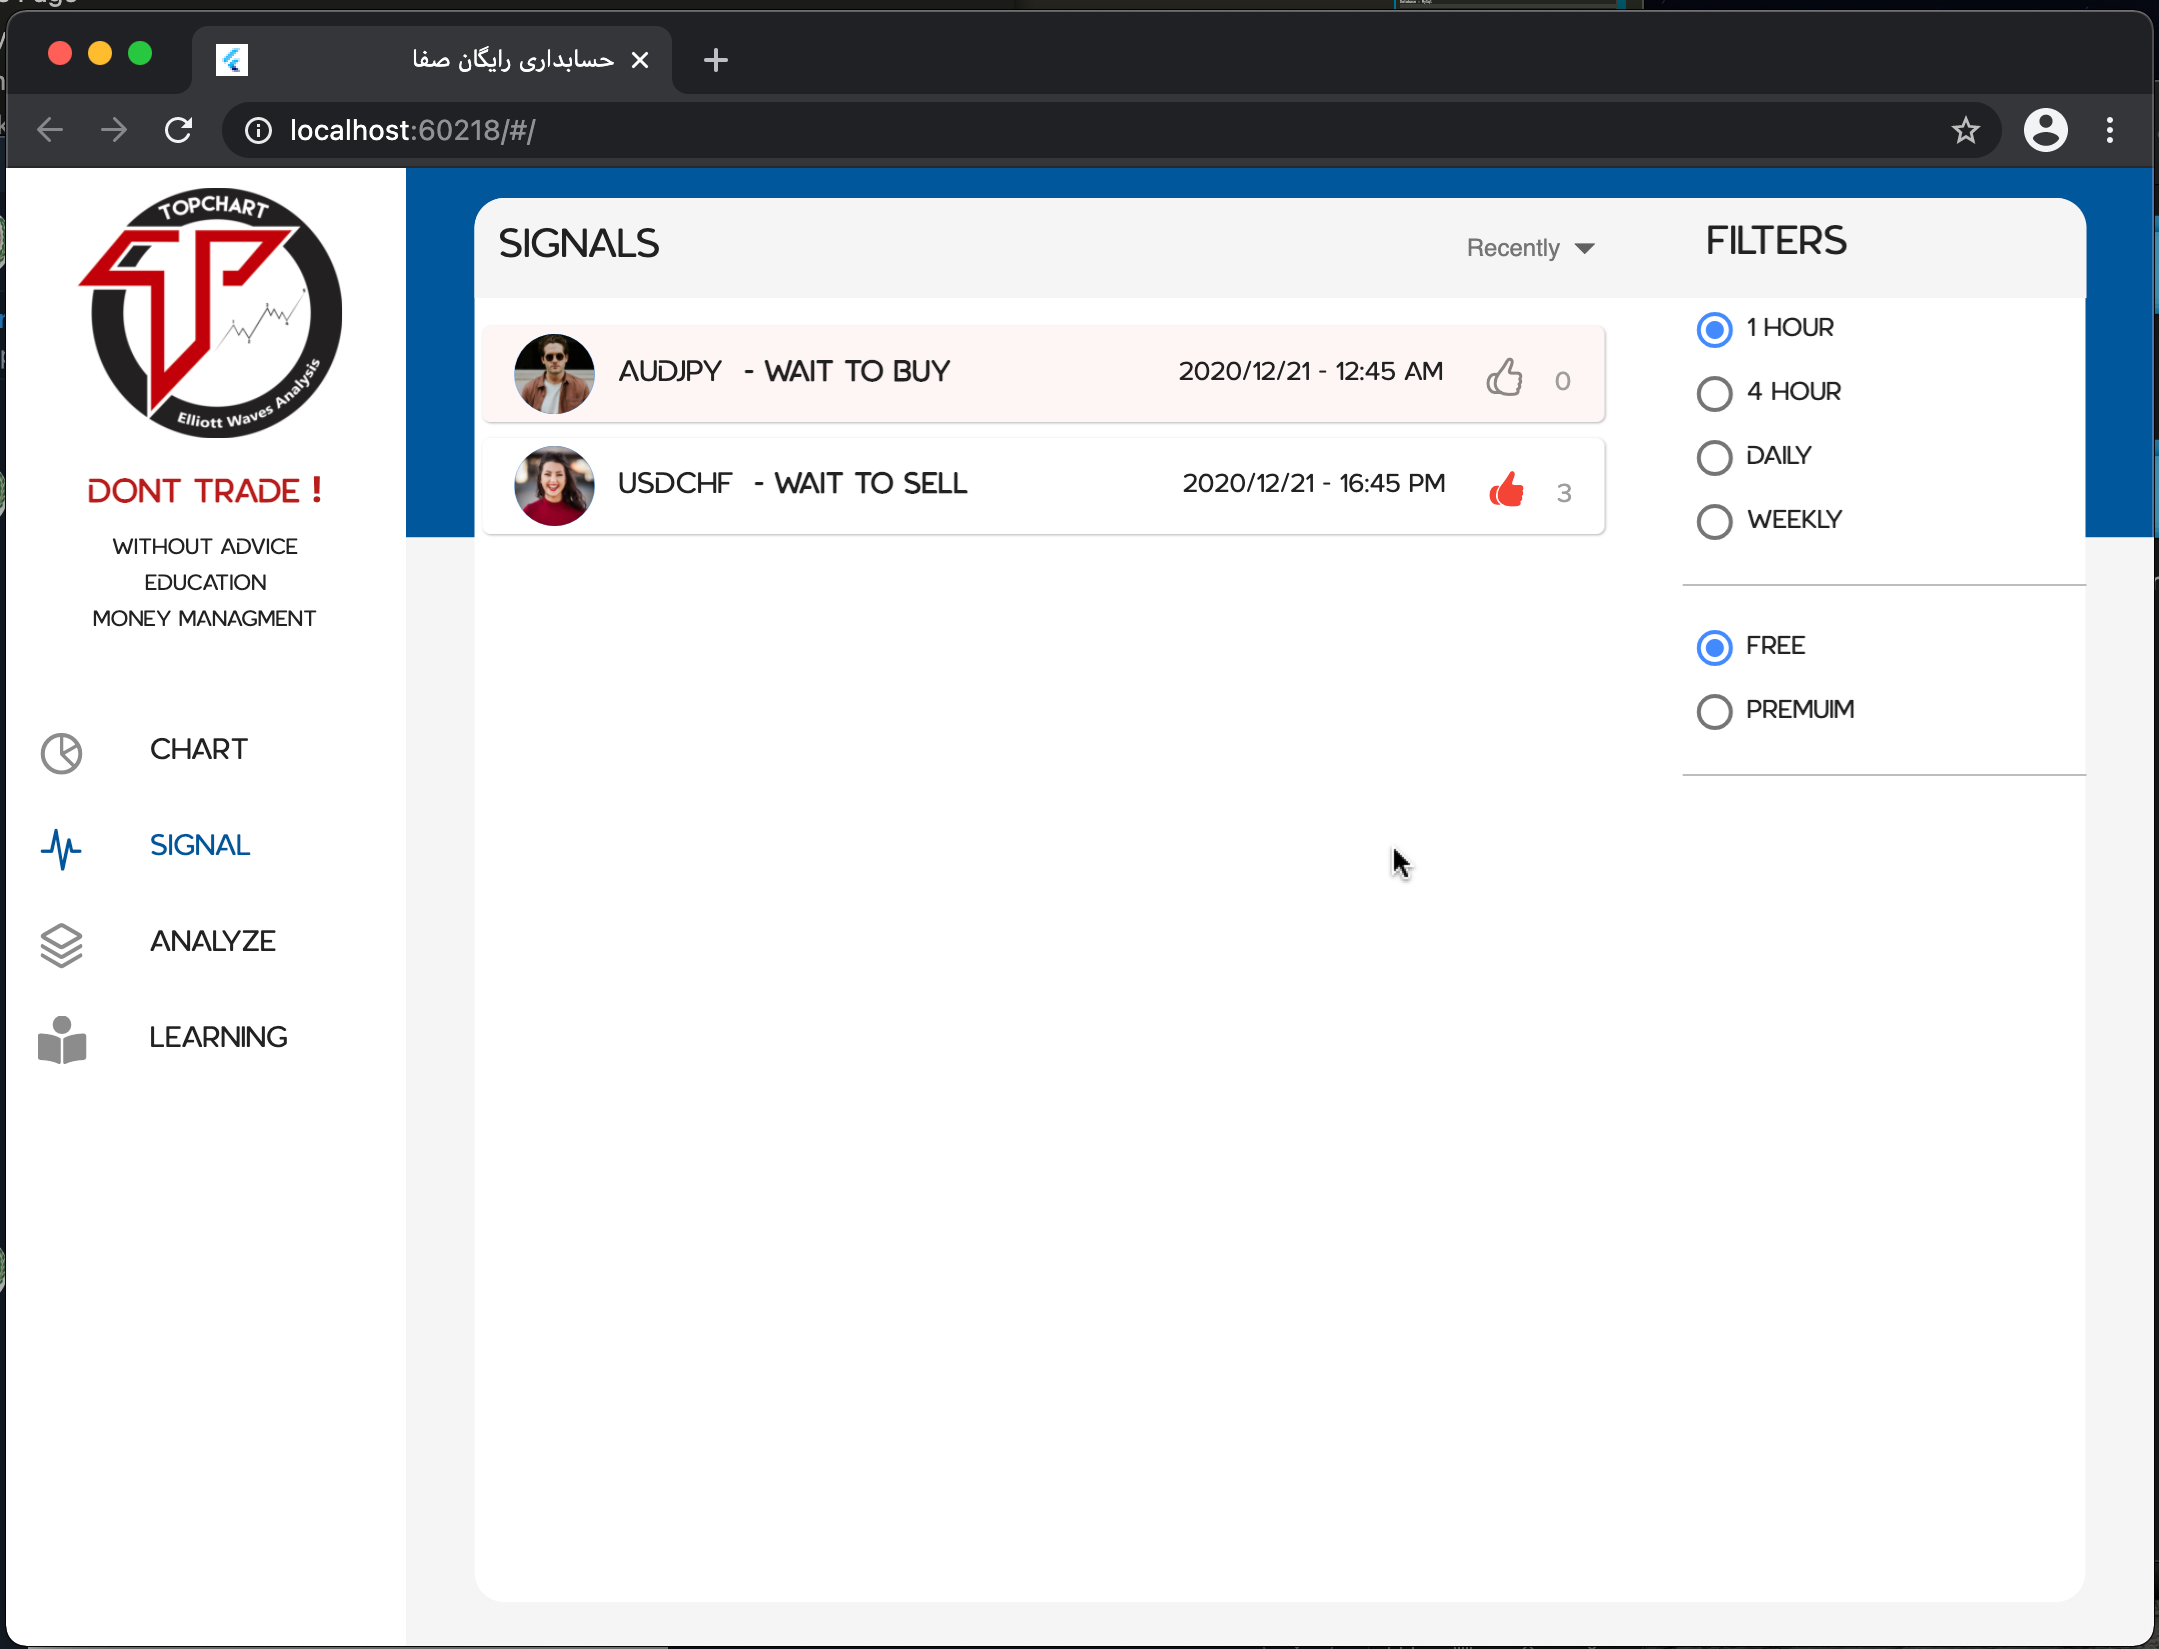
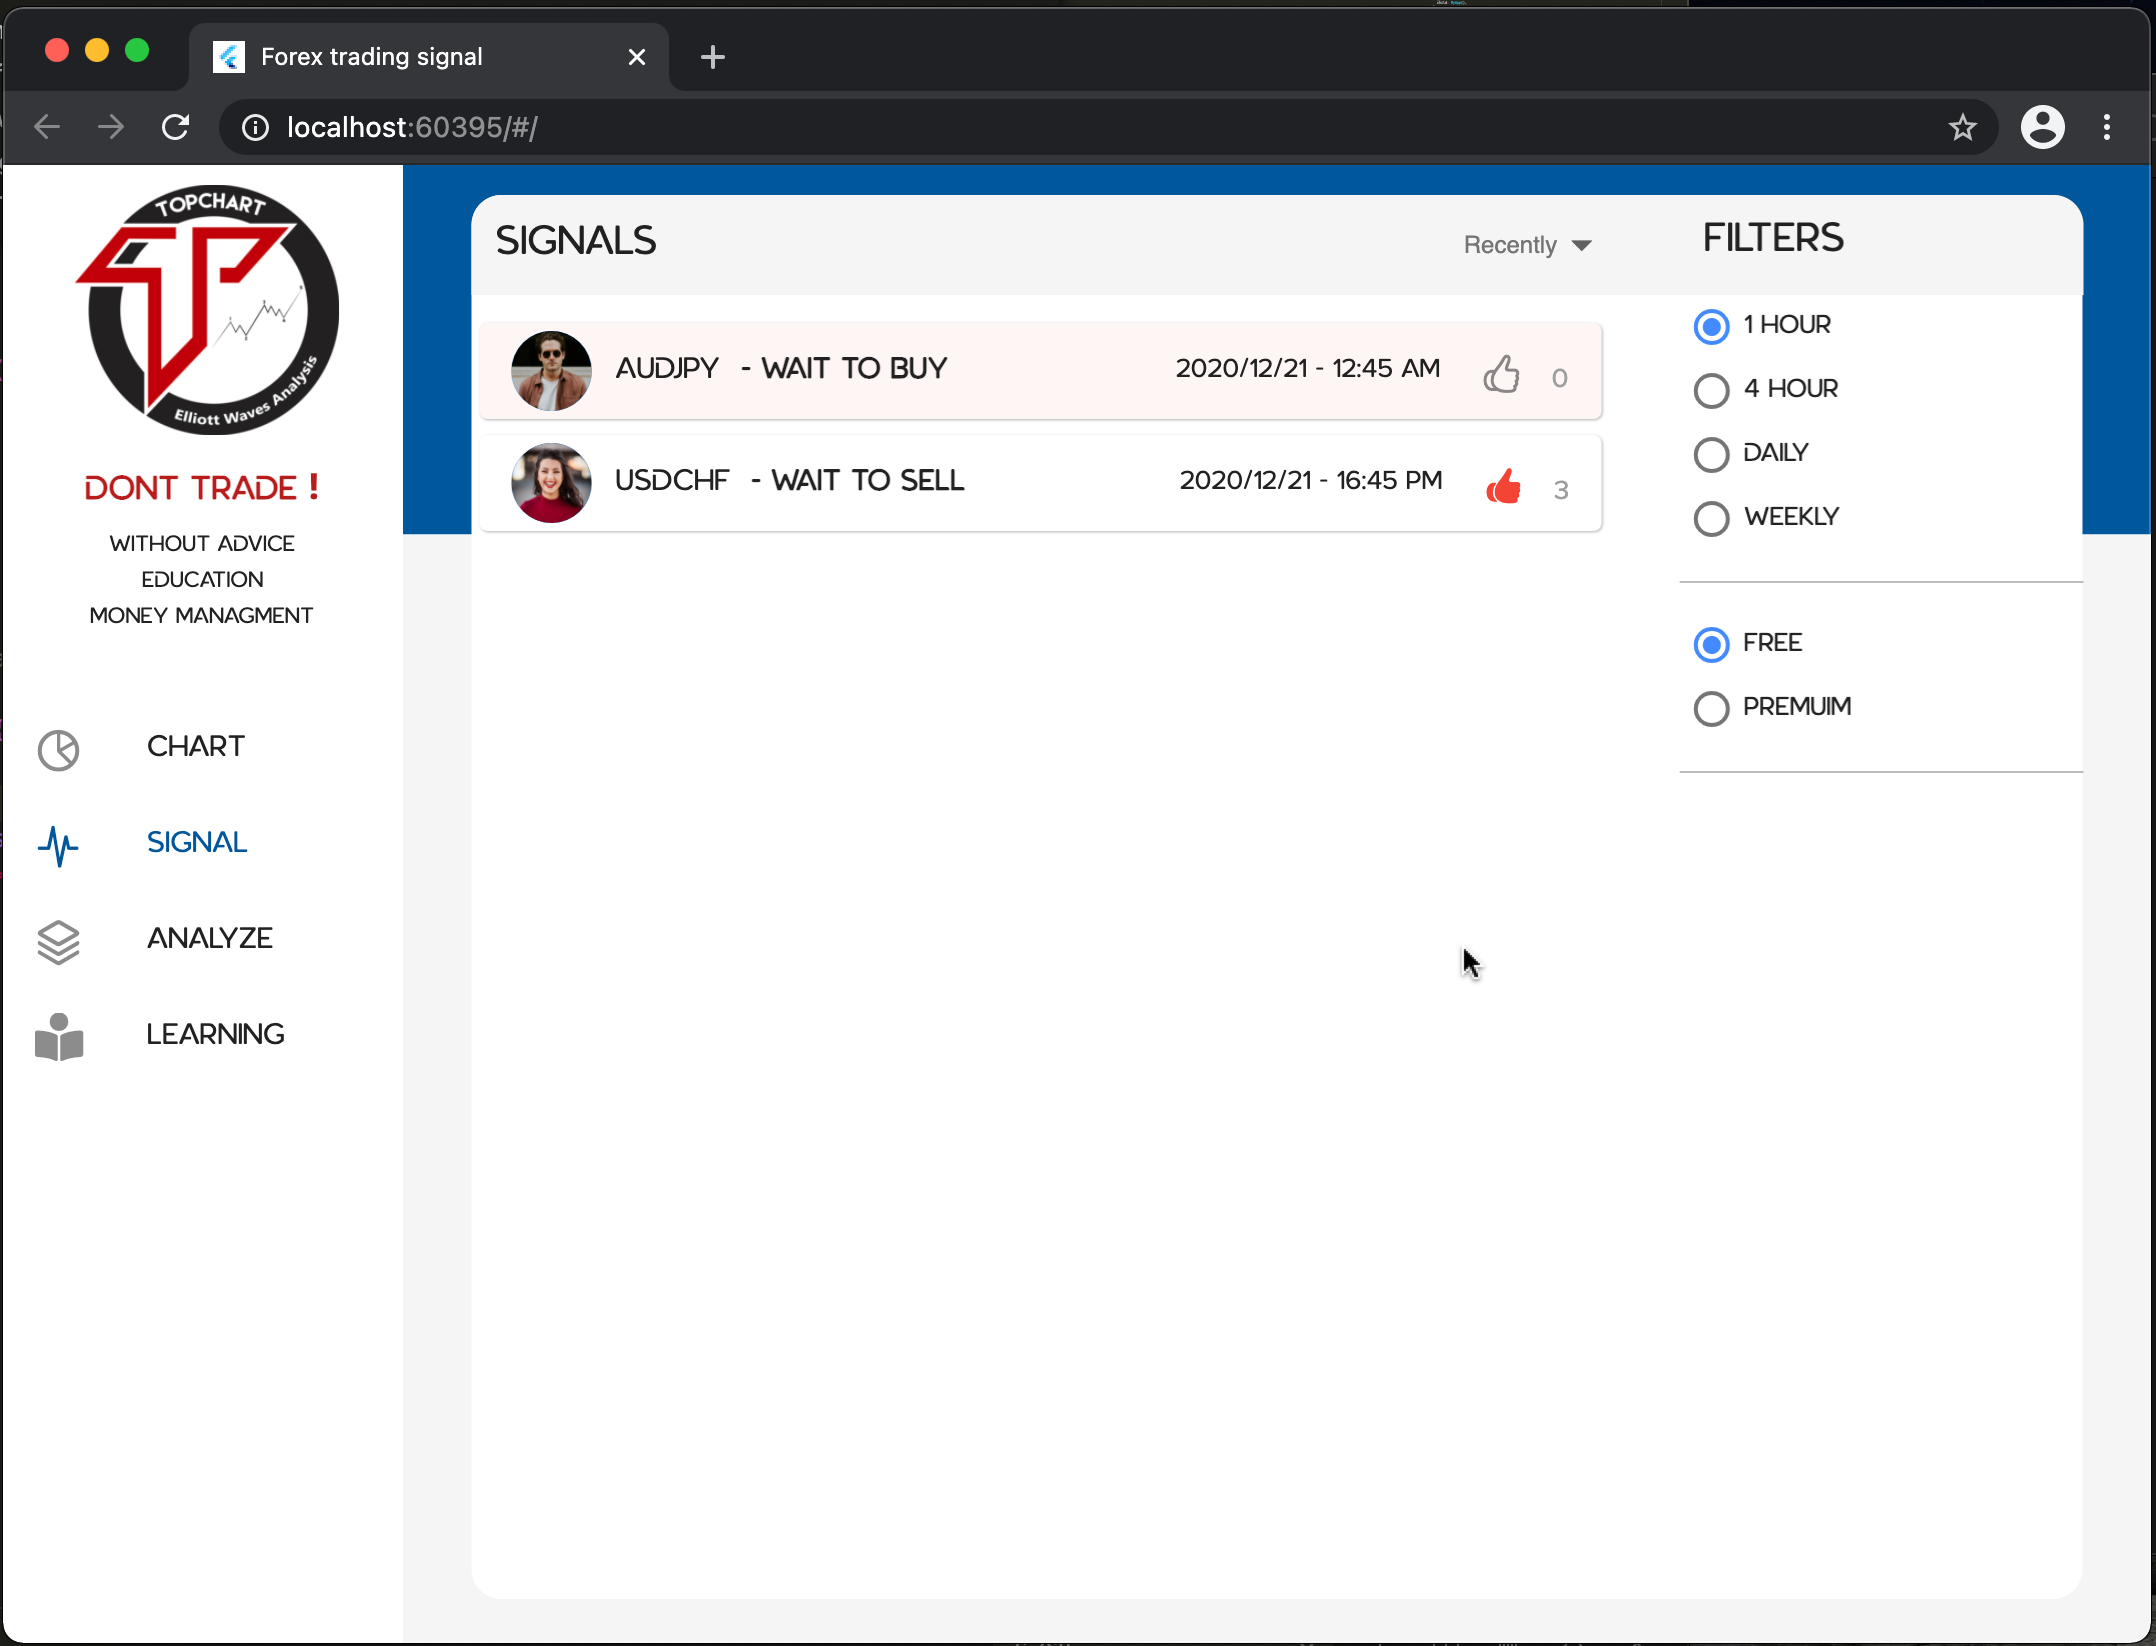
readme updated

diff --git a/lib/main.dart b/lib/main.dart
@@ -18,7 +18,7 @@ class MyApp extends StatelessWidget {
   @override
   Widget build(BuildContext context) {
     return MaterialApp(
-      title: 'حسابداری رایگان صفا',
+      title: 'Forex trading signal',
       debugShowCheckedModeBanner: false,
       theme: context.watch<MyProvider>().themeData,
       home: Dashboard()
